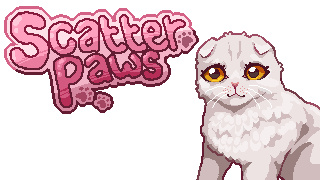
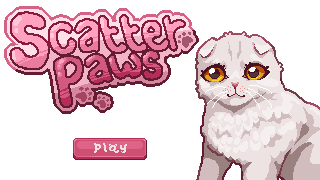
update play button

Changed region(s): [[0.2188, 0.75, 0.4688, 0.8889]]

diff --git a/src/functions/define.ts b/src/functions/define.ts
@@ -33,7 +33,6 @@ const define = (): void => {
   new ImageSource("scratch");
   new ImageSource("title");
   new ImageSource("pattern");
-  new ImageSource("buttons/play");
   new ImageSource("buttons/next");
   new ImageSource("hunger");
   new ImageSource("eating");

diff --git a/src/functions/draw/drawTitle.ts b/src/functions/draw/drawTitle.ts
@@ -17,7 +17,6 @@ const drawTitle = (): void => {
     }
   }
   drawImage("title", 1, 0, 0, gameWidth, gameHeight, 0, 0, gameWidth, gameHeight, null);
-  drawImage("buttons/play", 1, 0, 0, 48, 24, 84, 134, 48, 24, null);
 }
 
 export default drawTitle;
